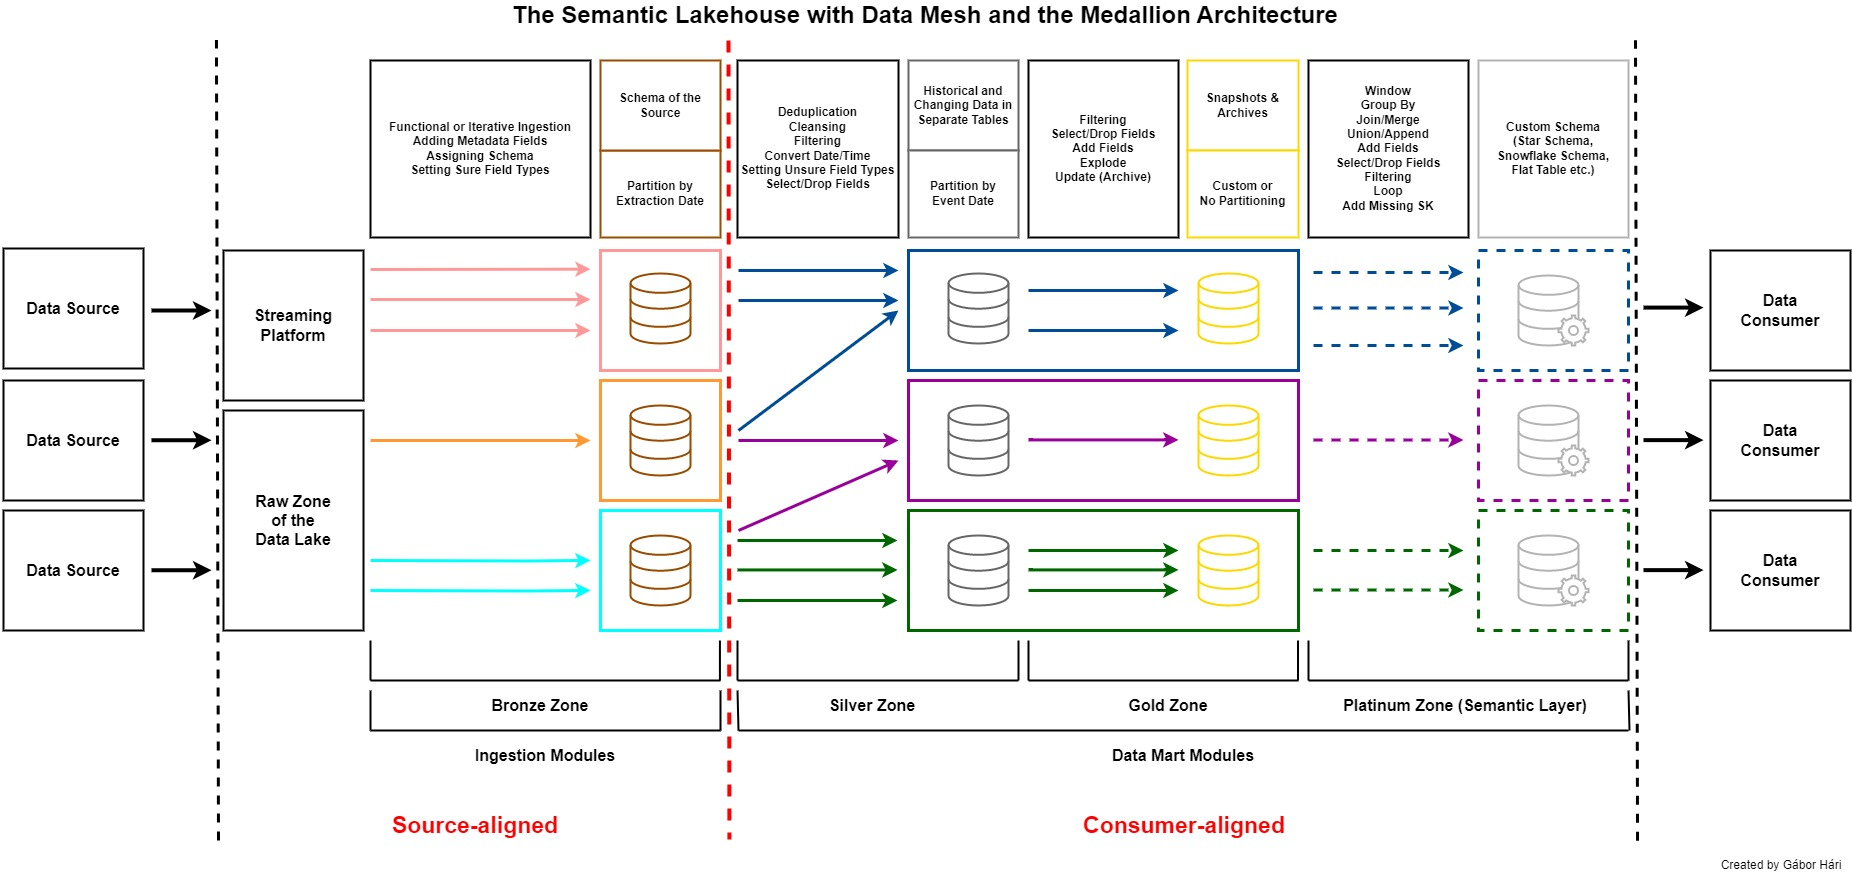
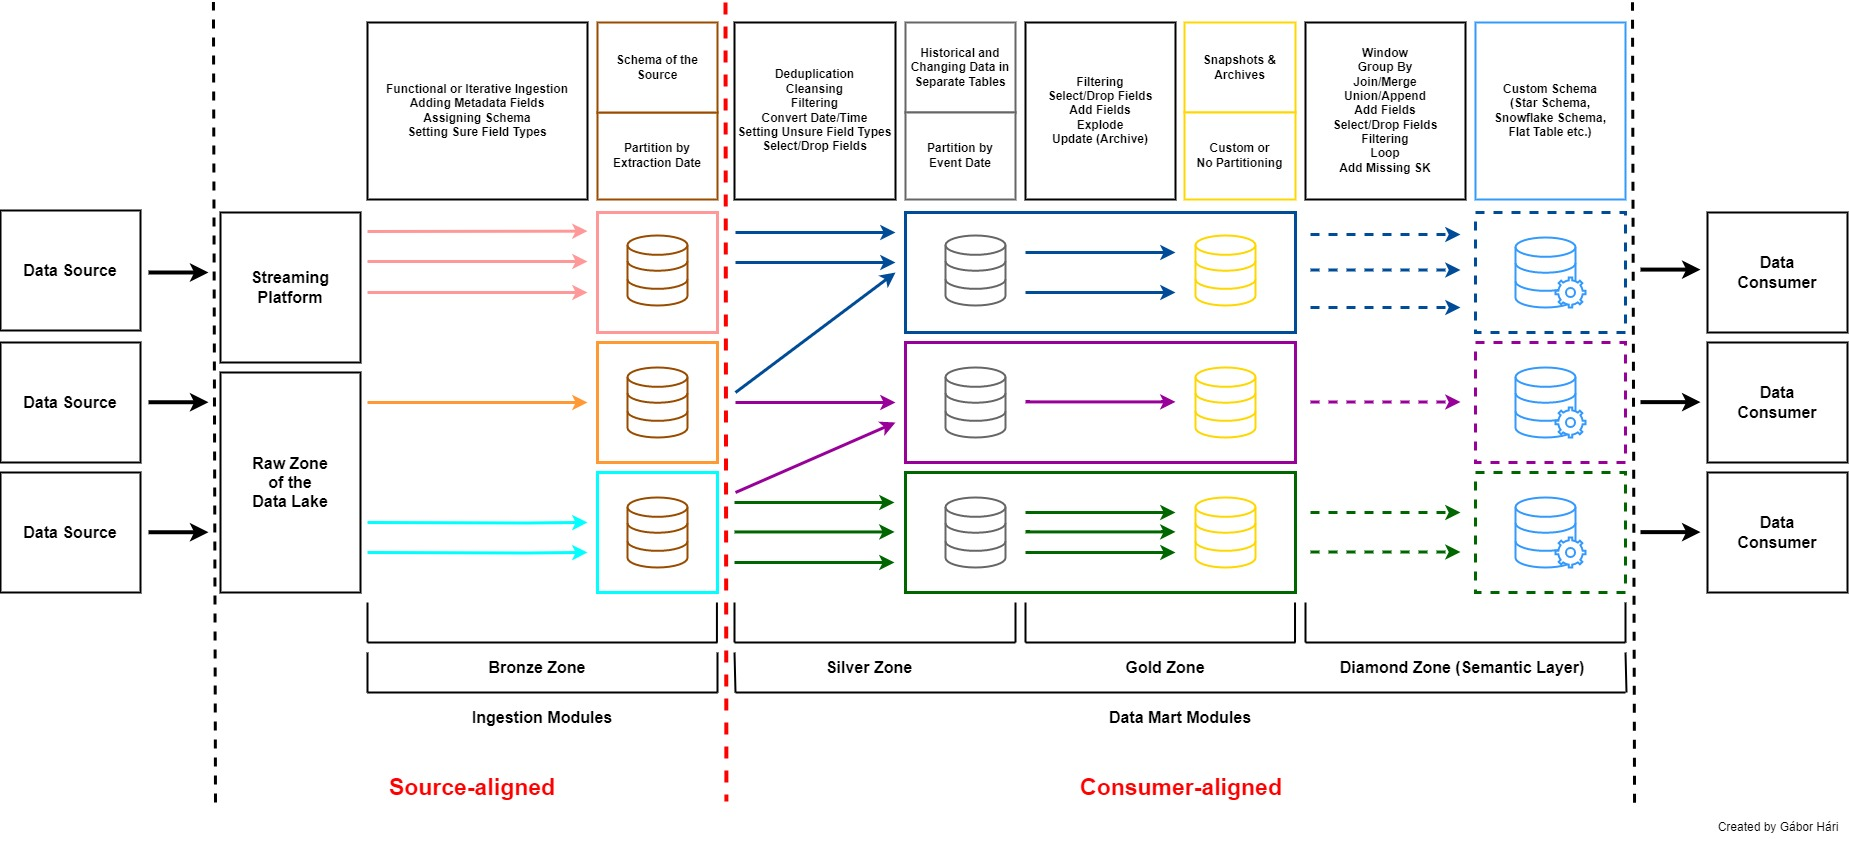
platinum layer adjusted to naming convention

diff --git a/README.md b/README.md
@@ -43,7 +43,7 @@ The main influences behind it are:
 ### Decentralization - Mesh between the Bronze Zone and Data Marts
 The independent data mart approach was labeled as an anti-pattern both by Inmon and Kimball despite its' popularity. The reasoning behind this was that a Data Warehouse should not contain contradictory information. This effectively means that incorrect but consistent ETL is preferred over divergent ETL that runs on the same source data, which leads to the concept of the Enterprise Data Warehouse, the "single source of truth". 
 
-However, in a modern architecture, there is no better single source of truth than raw data because one can make sure that it hasn't been touched by any buggy ETL... This effectively means that the monolithic horror of the EDW can be entirely replaced by **modular** and **consumer-aligned** Data Marts (Silver Zone, Gold Zone, Platinum Zone) that depend only on the **modular** and **source-aligned** ingested raw data (Bronze Zone). These Data Marts can be of varying scopes ranging from serving a single report to serving an entire department. The most important rule to keep in mind here is that each report should only consume data from a single Data Mart, for the sake of stability and agility.
+However, in a modern architecture, there is no better single source of truth than raw data because one can make sure that it hasn't been touched by any buggy ETL... This effectively means that the monolithic horror of the EDW can be entirely replaced by **modular** and **consumer-aligned** Data Marts (Silver Zone, Gold Zone, Diamond Zone) that depend only on the **modular** and **source-aligned** ingested raw data (Bronze Zone). These Data Marts can be of varying scopes ranging from serving a single report to serving an entire department. The most important rule to keep in mind here is that each report should only consume data from a single Data Mart, for the sake of stability and agility.
 
 ### Democratization, Collaboration - Multiple Standardized Projects
 The modularity should also be reflected in the code structure to avoid breaking pipelines that are already in production during updates and to provide a scalable codebase that can be worked on by multiple separate data teams. This is best done by creating shared utils, ingestion modules (Bronze), and datamarts (Silver, Gold) as separate projects, and updating and deploying them individually, preferably in a polyrepo structure (or in some cases monorepo, like this project). On top of this, thinking about table/pipeline-level packages within (larger) projects as standalone modules also helps to democratize the data platform and lowers the risk of breaking pipelines during new releases.
@@ -81,7 +81,7 @@ An important element of this layer is UDF support, as some of the complex transf
 [https://spark.apache.org/docs/3.3.0/sql-ref-syntax-ddl-create-function.html](https://spark.apache.org/docs/3.3.0/sql-ref-syntax-ddl-create-function.html)<br>
 [https://docs.databricks.com/sql/language-manual/sql-ref-functions-udf-hive.html](https://docs.databricks.com/sql/language-manual/sql-ref-functions-udf-hive.html)
 
-These semantic Databricks SQL "databases" should have a single datamart as a source, to minimize the number of dependencies, thus the risk of unintentional breaking. As a consequence of this strategy, each "database" will reflect a single gold (and silver) zone, which means these "databases" can be called Platinum modules and treated as the final layers of datamarts.
+These semantic Databricks SQL "databases" should have a single datamart as a source, to minimize the number of dependencies, thus the risk of unintentional breaking. As a consequence of this strategy, each "database" will reflect a single gold (and silver) zone, which means these "databases" can be called Diamond modules and treated as the final layers of datamarts.
 ## Sources
 **Data Mesh**<br>
 [https://www.datamesh-architecture.com/](https://www.datamesh-architecture.com/)<br>
